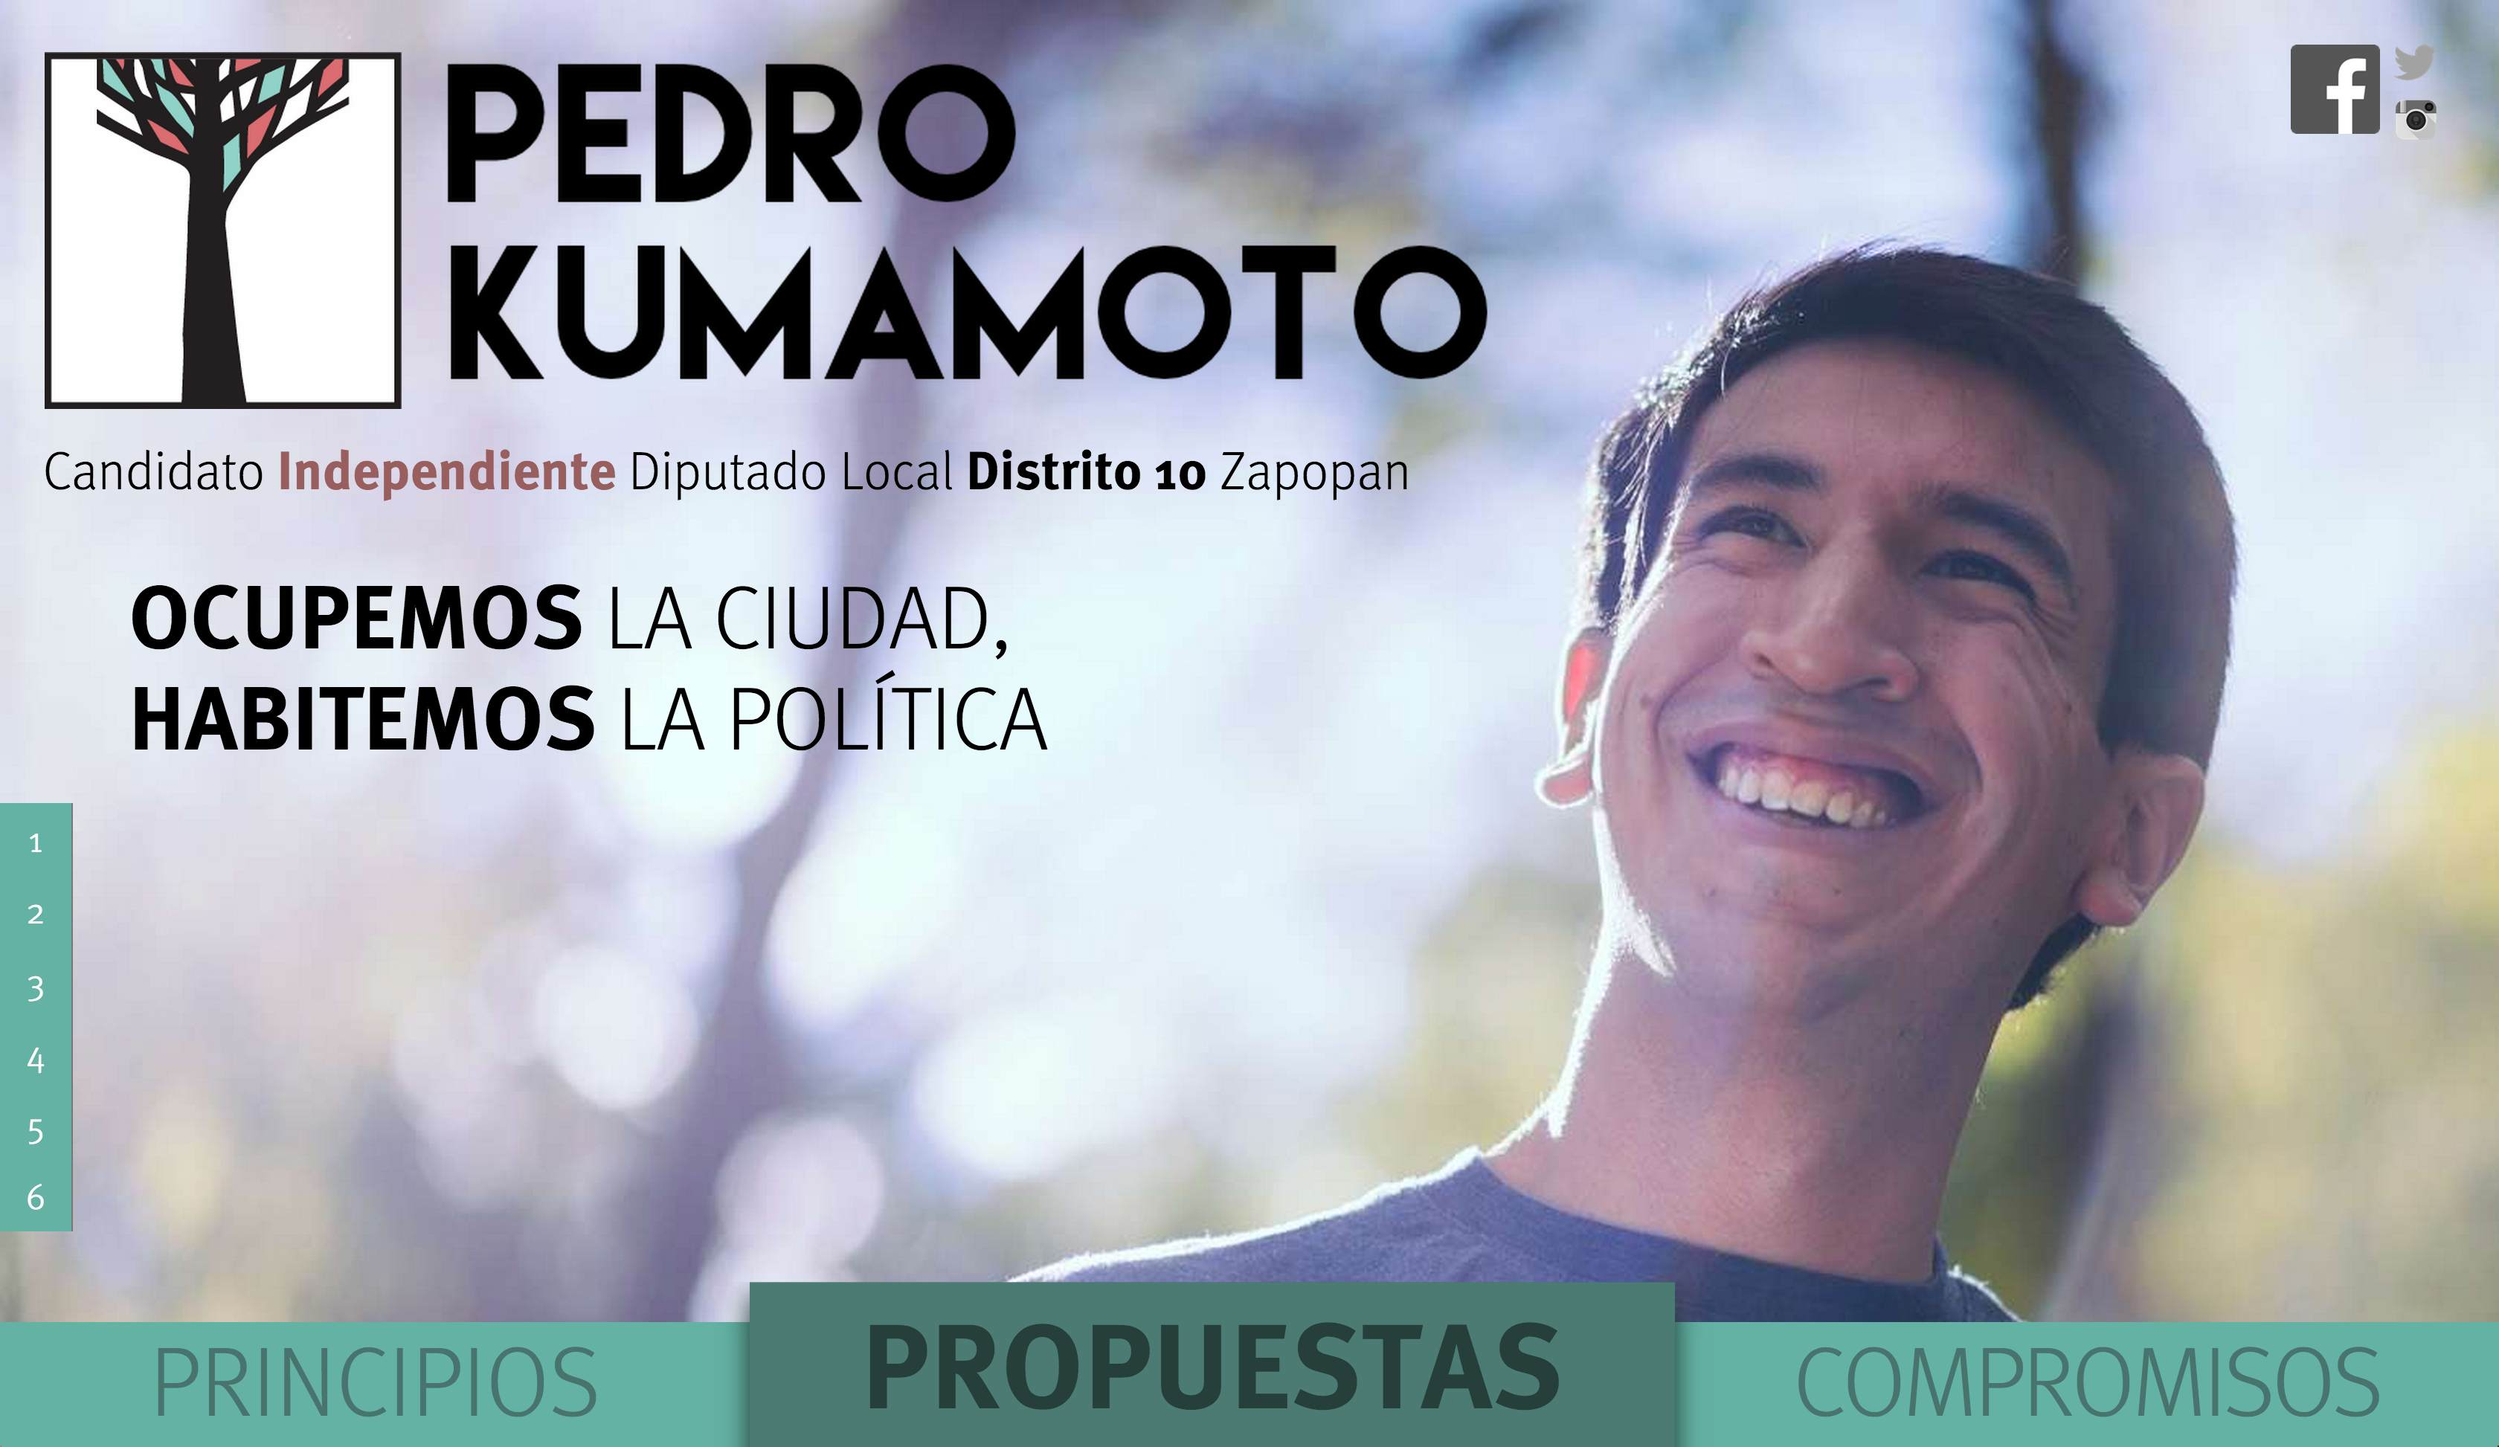
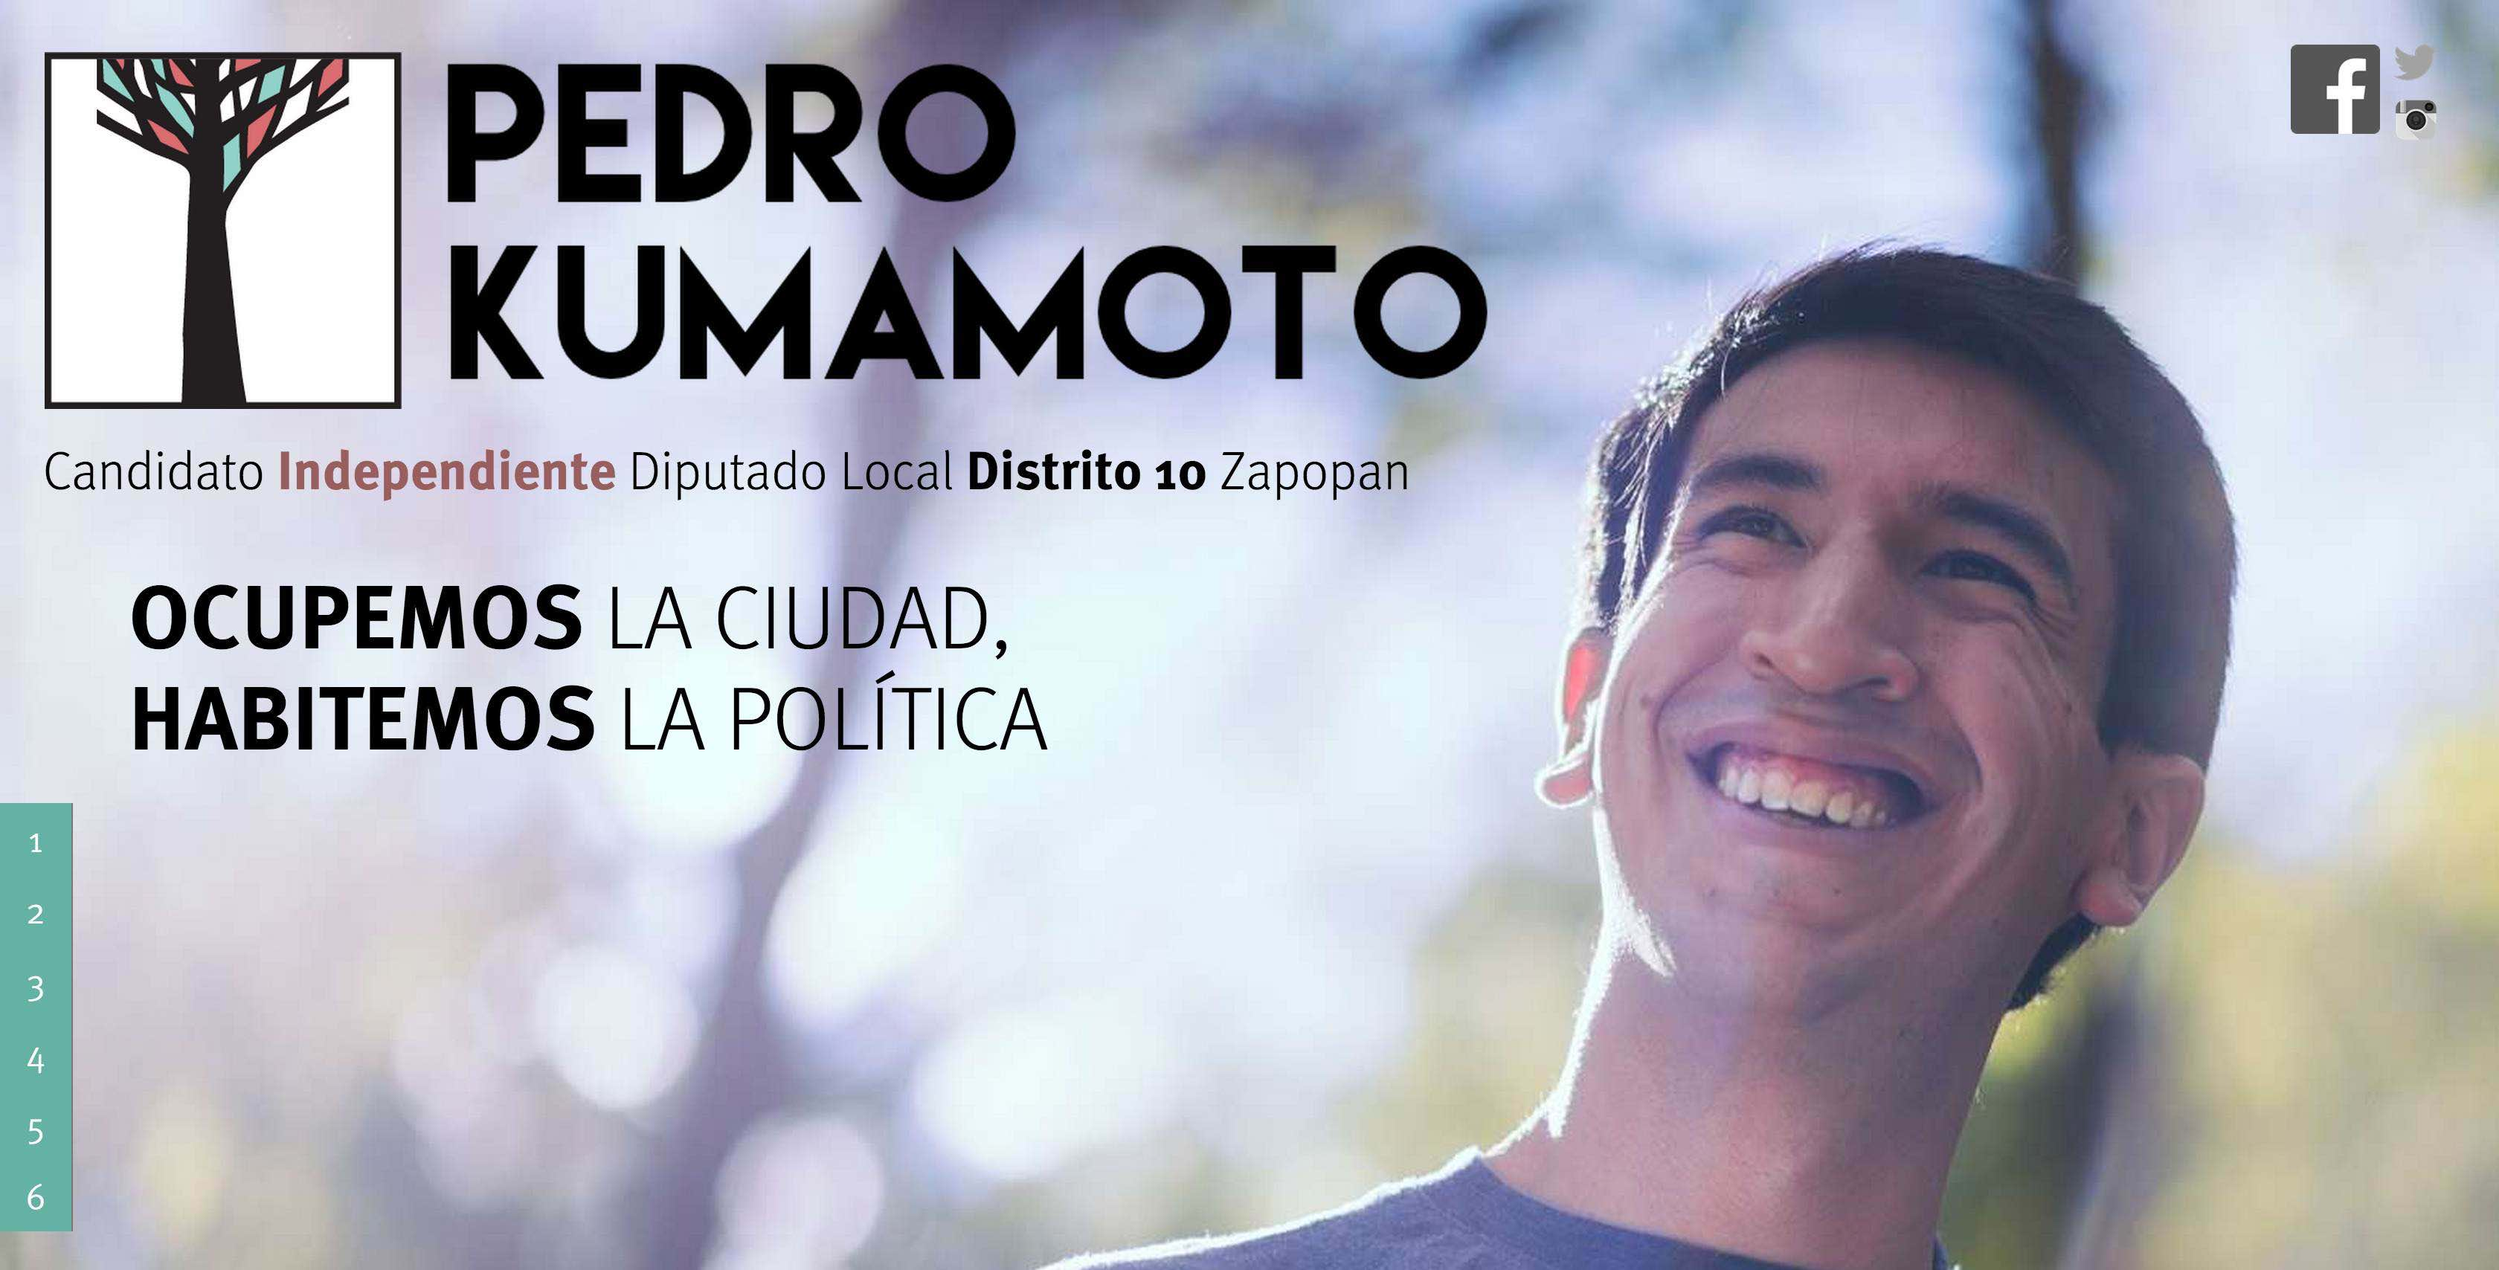
resized screenshots to better proportions, OG meta tweak

diff --git a/test/compromisos/index.html b/test/compromisos/index.html
@@ -50,13 +50,12 @@
 		<meta name="theme-color" content="#ffffff">
 
 	<!--FB-->
-	<meta property="og:title"        content="Mis Compromisos" />
+	<meta property="og:title"        content="Mis Compromisos | Pedro Kumamoto" />
 	<meta property="og:site_name"    content="Kumamoto.mx" />
 	<meta property="og:url"          content="http://kumamoto.mx/test/compromisos/" />
 	<meta property="og:image"        content="http://kumamoto.mx/img/screenshots/compromisos.jpg" />
 	<meta property="og:type"         content="website" />
-	<!--<meta property="og:video"    content="https://www.youtube.com/watch?v=cbOnIDkG3UQ" />-->
-	<meta property="og:description"  content="Queremos reivindicar el quehacer político a través de las formas y los fondos." />
+	<meta property="og:description"  content="Queremos reivindicar el quehacer político a través de las formas y los fondos. Además de presentar nuestras propuestas decidimos asumir 17 compromisos que orientarán nuestra acción desde el primer día de campaña hasta el final del periodo legislativo de Pedro Kumamoto." />
 	<meta property="og:locale"       content="es_LA" />
 	<meta property="fb:app_id"       content="951659831540752" />
 </head>

diff --git a/test/principios/index.html b/test/principios/index.html
@@ -50,13 +50,12 @@
 		<meta name="theme-color" content="#ffffff">
 
 	<!--FB-->
-	<meta property="og:title"        content="Mis Principios" />
+	<meta property="og:title"        content="Mis Principios | Pedro Kumamoto" />
 	<meta property="og:site_name"    content="Kumamoto.mx" />
 	<meta property="og:url"          content="http://kumamoto.mx/test/principios/" />
 	<meta property="og:image"        content="http://kumamoto.mx/img/screenshots/principios.jpg" />
 	<meta property="og:type"         content="website" />
-	<!--<meta property="og:video"    content="https://www.youtube.com/watch?v=cbOnIDkG3UQ" />-->
-	<meta property="og:description"  content="Quiero compartirte los 7 principios que forman la base de mi campaña y de mi vocación política." />
+	<meta property="og:description"  content="Quiero compartirte los 7 principios que forman las raices de mi campaña." />
 	<meta property="og:locale"       content="es_LA" />
 	<meta property="fb:app_id"       content="951659831540752" />
 </head>

diff --git a/test/propuestas/index.html b/test/propuestas/index.html
@@ -50,12 +50,11 @@
 		<meta name="theme-color" content="#ffffff">
 
 	<!--FB-->
-	<meta property="og:title"        content="Mis Propuestas" />
+	<meta property="og:title"        content="Mis propuestas | Pedro Kumamoto" />
 	<meta property="og:site_name"    content="Kumamoto.mx" />
 	<meta property="og:url"          content="http://kumamoto.mx/test/propuestas/" />
 	<meta property="og:image"        content="http://kumamoto.mx/img/screenshots/propuestas.jpg" />
 	<meta property="og:type"         content="website" />
-	<!--<meta property="og:video"    content="https://www.youtube.com/watch?v=cbOnIDkG3UQ" />-->
 	<meta property="og:description"  content="Quiero compartirte mi plataforma política, lo que significa ocupar la ciudad y habitar la política." />
 	<meta property="og:locale"       content="es_LA" />
 	<meta property="fb:app_id"       content="951659831540752" />

diff --git a/test/kit/index.html b/test/kit/index.html
@@ -50,12 +50,11 @@
 		<meta name="theme-color" content="#ffffff">
 
 	<!--FB-->
-	<meta property="og:title"        content="" />
+	<meta property="og:title"        content="Privacidad | Pedro Kumamoto" />
 	<meta property="og:site_name"    content="Kumamoto.mx" />
 	<meta property="og:url"          content="http://kumamoto.mx/test/" />
 	<meta property="og:image"        content="http://kumamoto.mx/" />
 	<meta property="og:type"         content="website" />
-	<!--<meta property="og:video"    content="https://www.youtube.com/watch?v=cbOnIDkG3UQ" />-->
 	<meta property="og:description"  content="" />
 	<meta property="og:locale"       content="es_LA" />
 	<meta property="fb:app_id"       content="951659831540752" />

diff --git a/test/privacidad/index.html b/test/privacidad/index.html
@@ -50,12 +50,11 @@
 		<meta name="theme-color" content="#ffffff">
 
 	<!--FB-->
-	<meta property="og:title"        content="" />
+	<meta property="og:title"        content="Privacidad | Pedro Kumamoto" />
 	<meta property="og:site_name"    content="Kumamoto.mx" />
 	<meta property="og:url"          content="http://kumamoto.mx/test/" />
 	<meta property="og:image"        content="http://kumamoto.mx/" />
 	<meta property="og:type"         content="website" />
-	<!--<meta property="og:video"    content="https://www.youtube.com/watch?v=cbOnIDkG3UQ" />-->
 	<meta property="og:description"  content="" />
 	<meta property="og:locale"       content="es_LA" />
 	<meta property="fb:app_id"       content="951659831540752" />

diff --git a/index.html b/index.html
@@ -50,12 +50,11 @@
 		<meta name="theme-color" content="#ffffff">
 
 	<!--FB-->
-	<meta property="og:title"        content="" />
+	<meta property="og:title"        content="Pedro Kumamoto" />
 	<meta property="og:site_name"    content="Kumamoto.mx" />
 	<meta property="og:url"          content="http://kumamoto.mx/test/" />
 	<meta property="og:image"        content="http://kumamoto.mx/" />
 	<meta property="og:type"         content="website" />
-	<!--<meta property="og:video"    content="https://www.youtube.com/watch?v=cbOnIDkG3UQ" />-->
 	<meta property="og:description"  content="" />
 	<meta property="og:locale"       content="es_LA" />
 	<meta property="fb:app_id"       content="951659831540752" />

diff --git a/test/index.html b/test/index.html
@@ -55,7 +55,6 @@
 	<meta property="og:url"          content="http://kumamoto.mx/test/" />
 	<meta property="og:image"        content="http://kumamoto.mx/img/screenshots/inicio.jpg" />
 	<meta property="og:type"         content="website" />
-	<!--<meta property="og:video"    content="https://www.youtube.com/watch?v=cbOnIDkG3UQ" />-->
 	<meta property="og:description"  content="Soy Pedro Kumamoto, el primer candidato sin partidos al Congreso de Jalisco." />
 	<meta property="og:locale"       content="es_LA" />
 	<meta property="fb:app_id"       content="951659831540752" />
